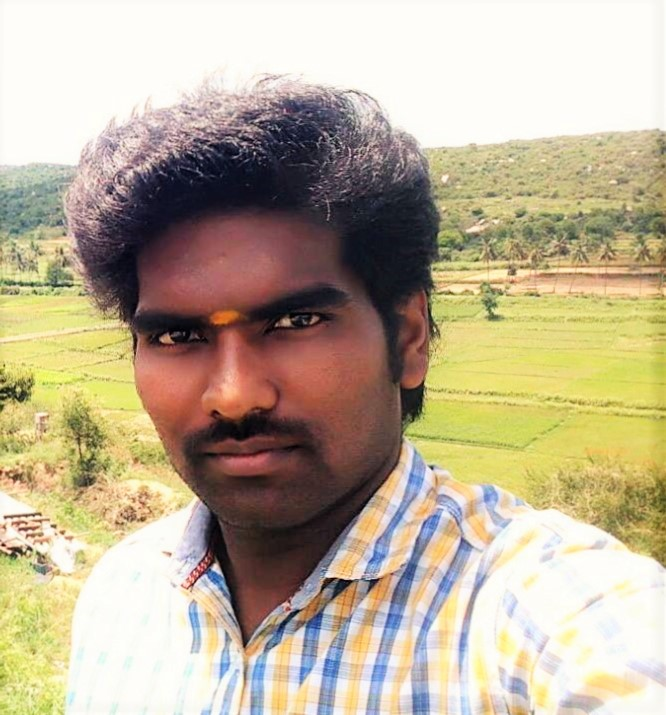
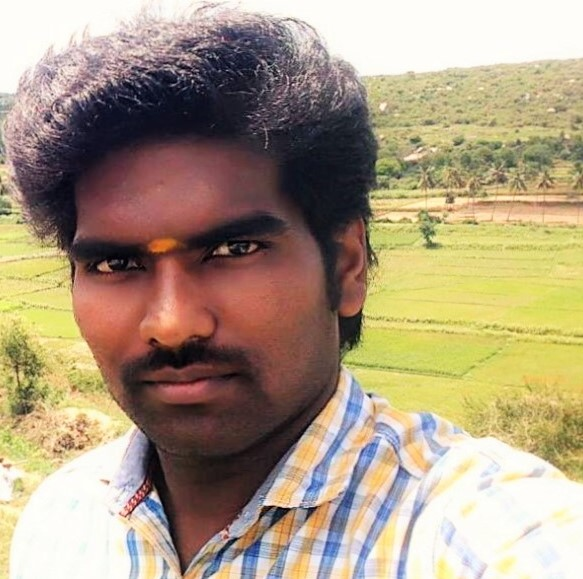
four

diff --git a/about-us.html b/about-us.html
@@ -140,13 +140,14 @@
 			<div class="center animated bounceInLeft">
                     <p><img class="img-responsive img-thumbnail img-circle" src="images/gopi.jpg" alt="" ></p>
                     <h5>Gopinath L<small class="designation muted">Senior Architect Designer</small></h5>
-                    <p>Expert in Architect design and drafting</p>
+                    <p>Expert in Architect design and drafting Desigins</p>
                     <a class="btn btn-social btn-facebook" href="#"><i class="icon-facebook"></i></a> <a class="btn btn-social btn-google-plus" href="#"><i class="icon-google-plus"></i></a> <a class="btn btn-social btn-twitter" href="#"><i class="icon-twitter"></i></a> <a class="btn btn-social btn-linkedin" href="#"><i class="icon-linkedin"></i></a>
-                </div>       </section>
+                </div>       
+				</section>
             </div> 
 			
             <div class="col-md-3 col-xs-6">
-			<section class="wow flash">
+			<section class="wow slideInLeft">
 			<div class="center animated bounceInLeft">
                     <p><img class="img-responsive img-thumbnail img-circle" src="images/kiruba.jpg" alt="" ></p>
                     <h5>Kirubakaran<small class="designation muted">Senior PCB Designer</small></h5>
@@ -160,7 +161,7 @@
 			<div class="col-md-3 col-xs-6">
 			<section class="wow slideInLeft">
 			<div class="center animated bounceInRight">
-                    <p><img class="img-responsive img-thumbnail img-circle" src="images/mano.jpg" alt="" ></p>
+                    <p><img class="img-responsive img-thumbnail img-circle" src="images/mano2.png" alt="" ></p>
                     <h5>Mano Ranjith .C<small class="designation muted">Senior Programmer</small></h5>
                     <p>Expert in Softwere Developement and Ethical Hacking </p>
                     <a class="btn btn-social btn-facebook" href="#"><i class="icon-facebook"></i></a> <a class="btn btn-social btn-google-plus" href="#"><i class="icon-google-plus"></i></a> <a class="btn btn-social btn-twitter" href="#"><i class="icon-twitter"></i></a> <a class="btn btn-social btn-linkedin" href="#"><i class="icon-linkedin"></i></a>
